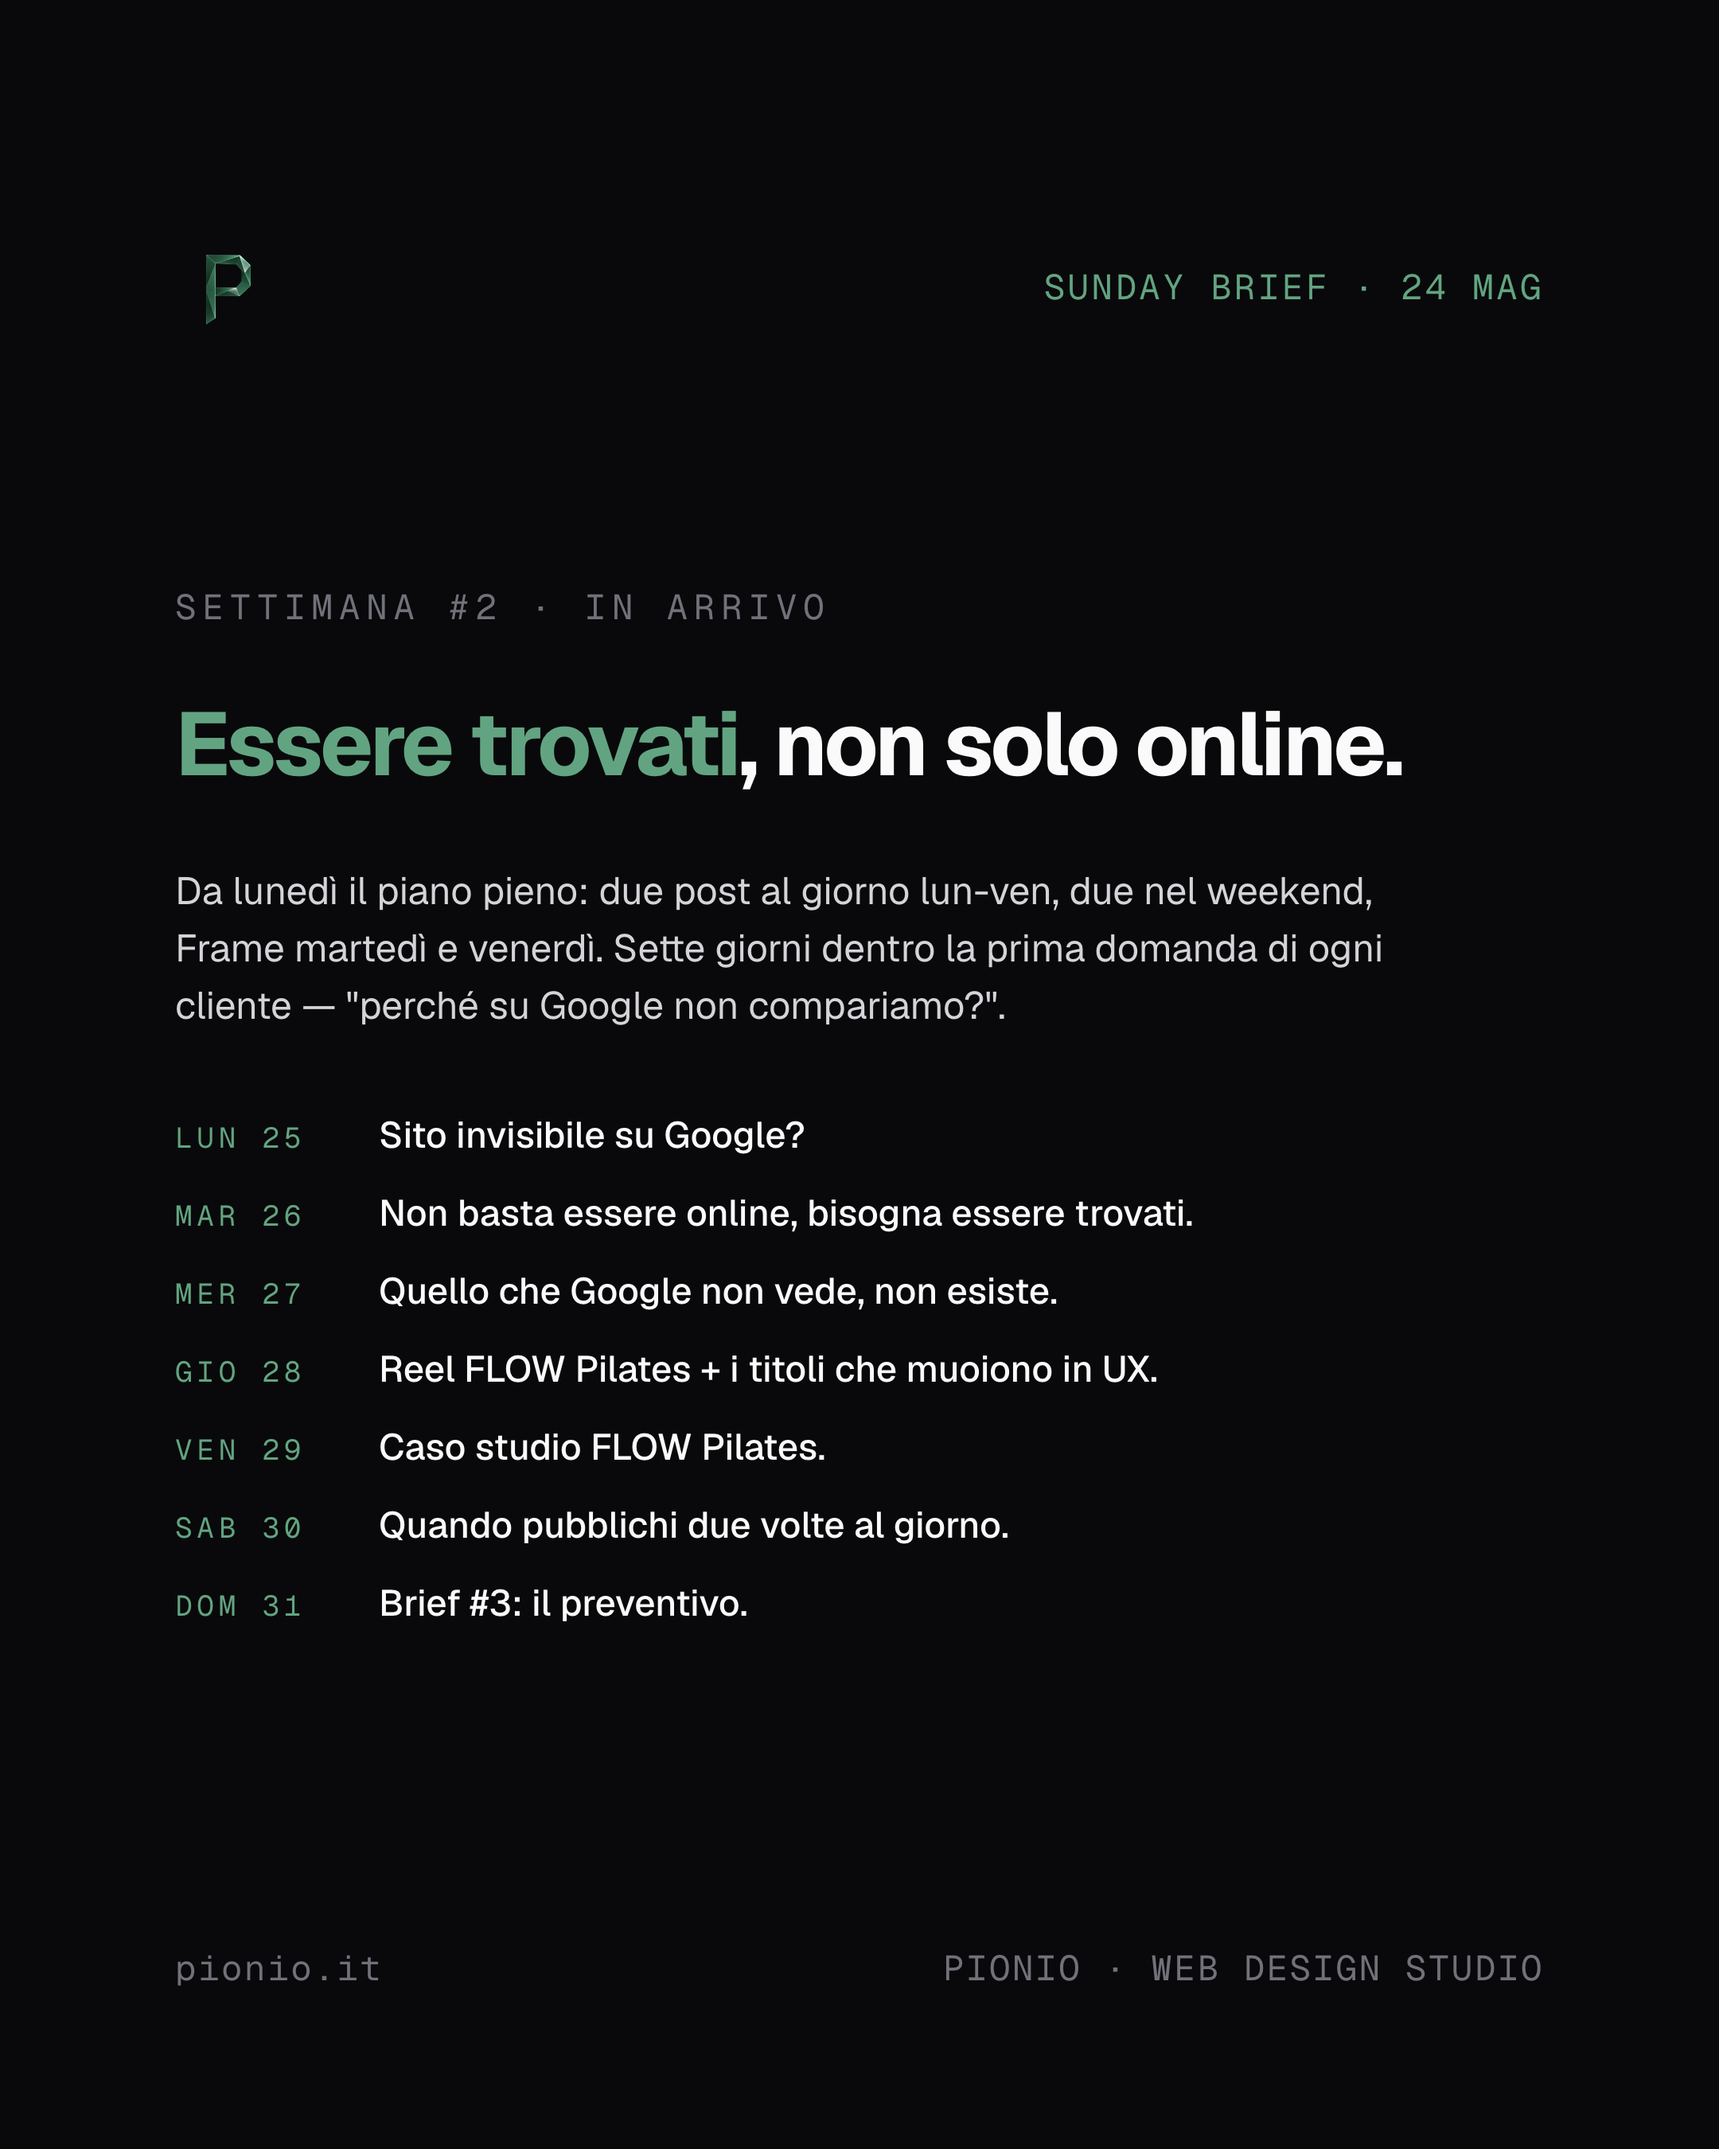
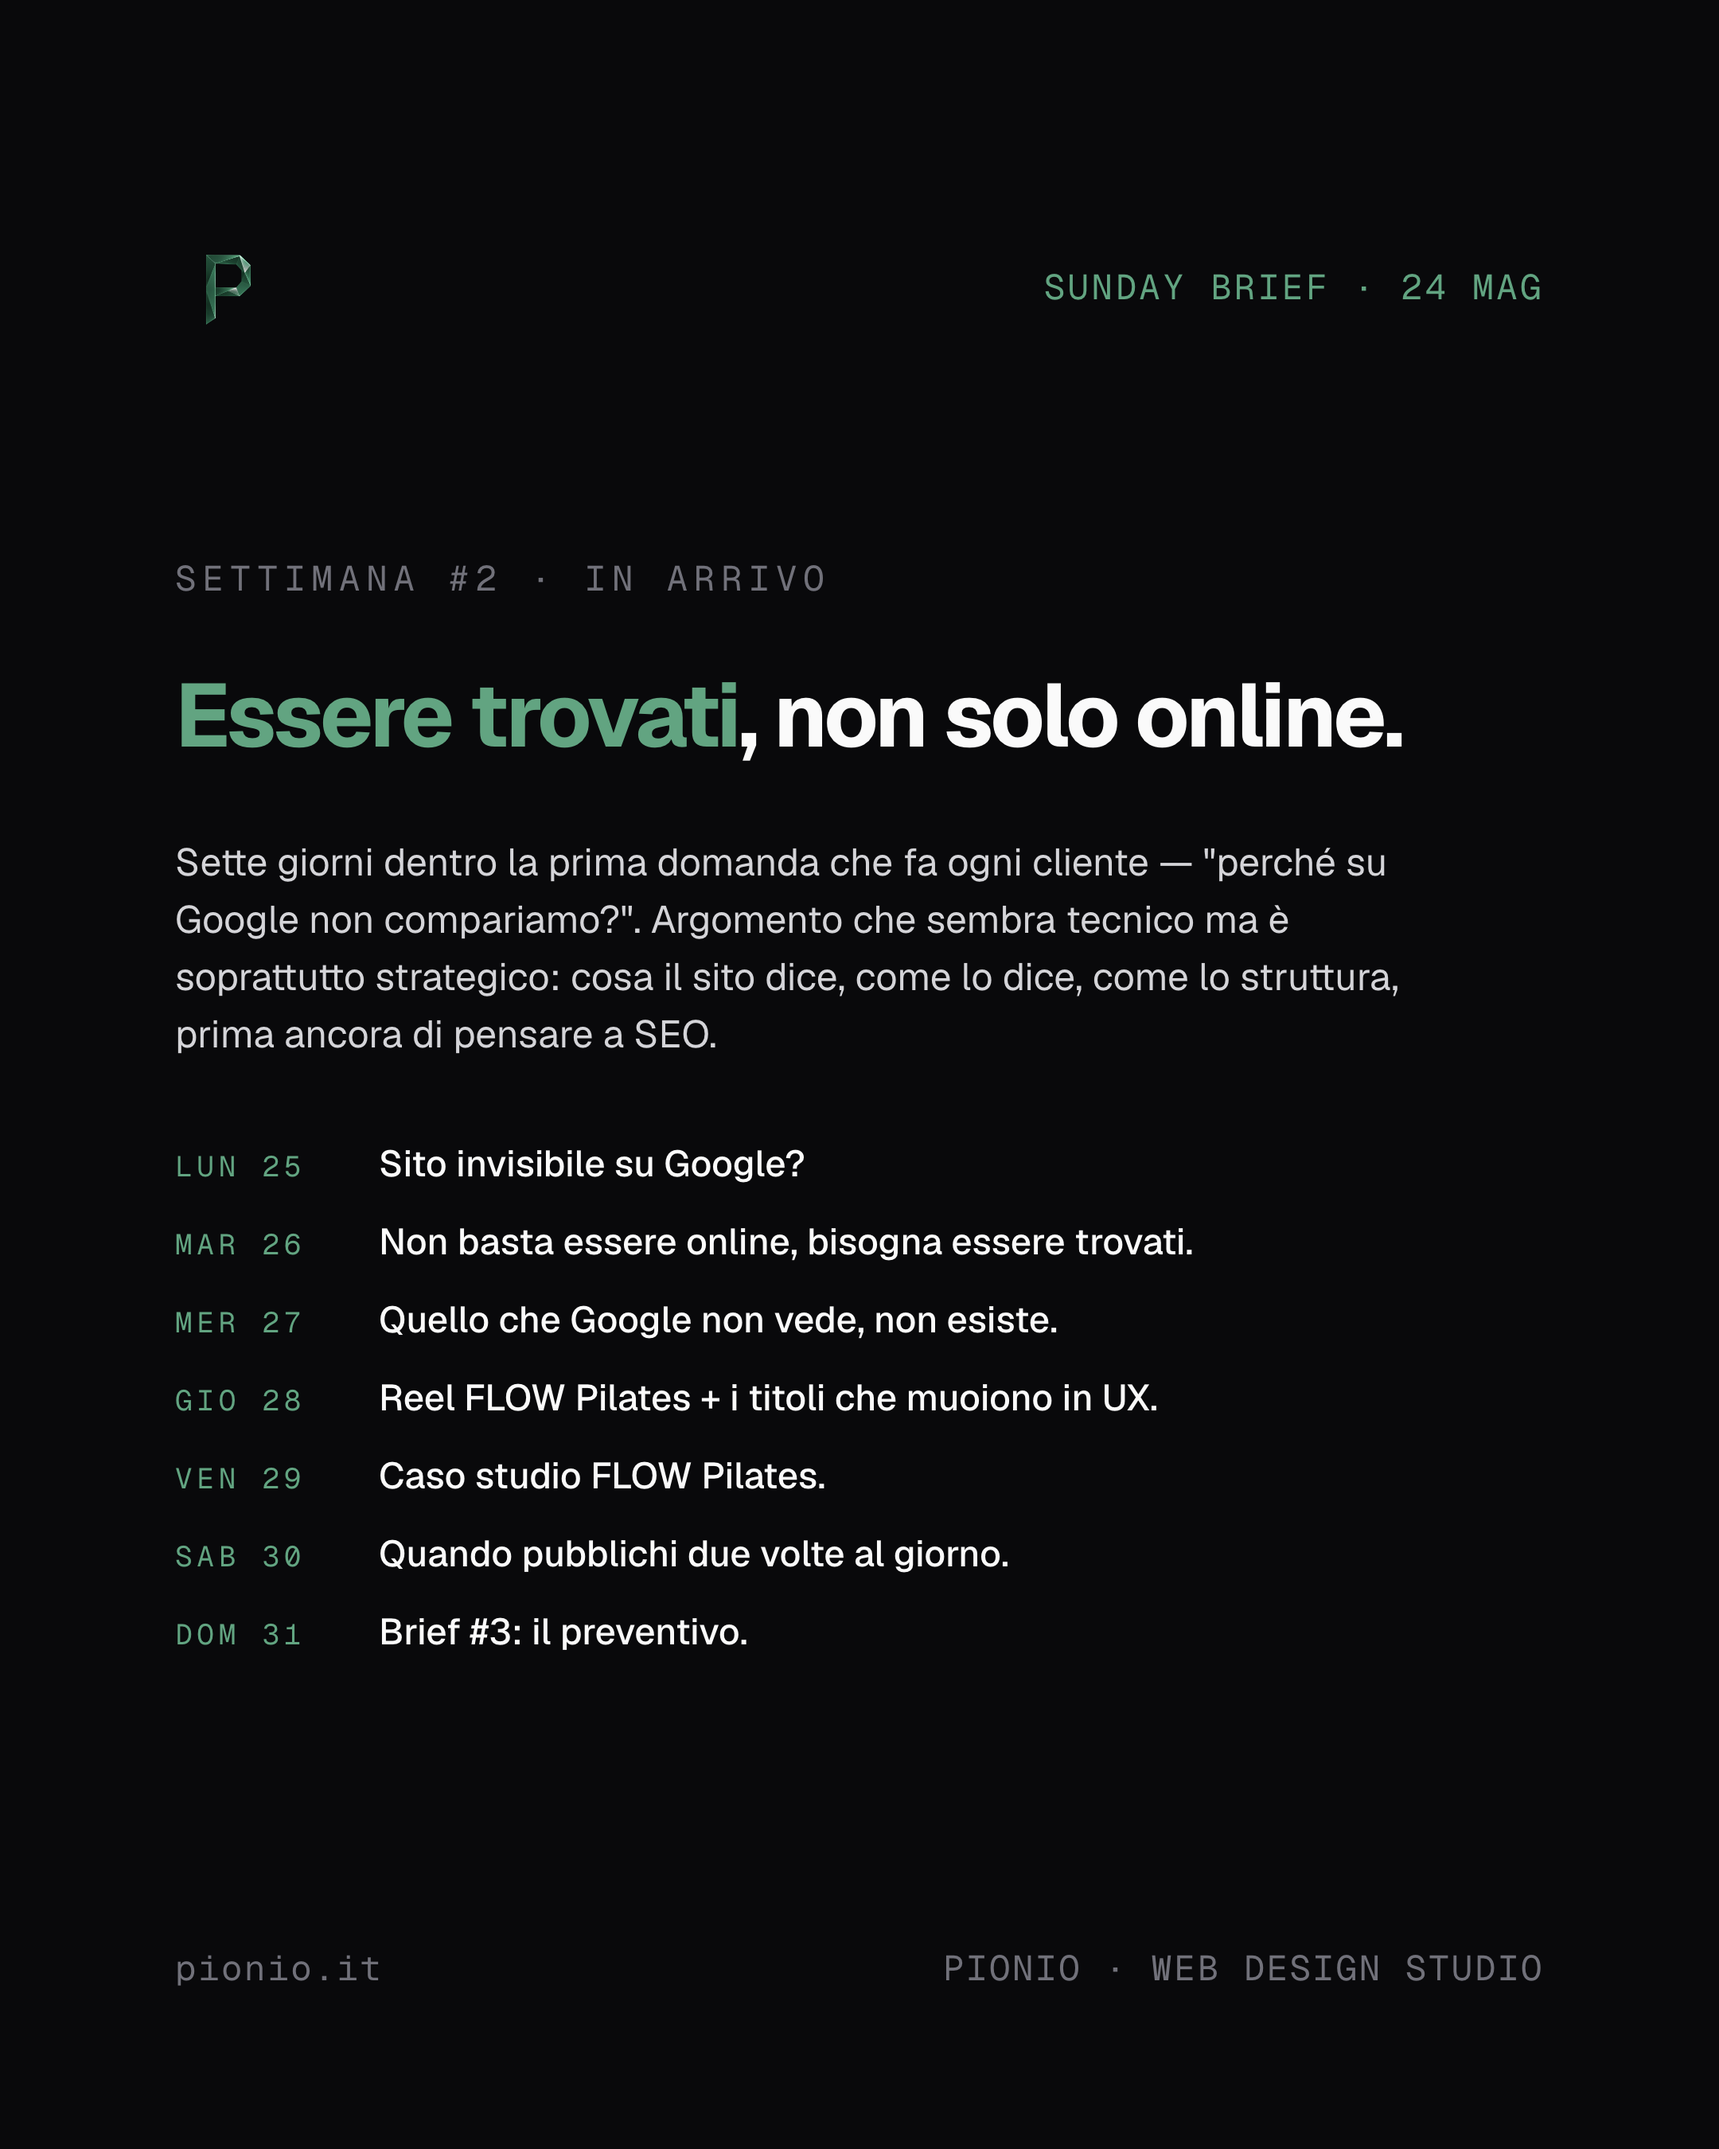
fix(instagram): Brief #2 — togli descrizione piano operativo (16 post legacy)

diff --git a/instagram/content/settimana-01-mag-2026/7-dom-24-13-brief-settimana-2/src/slides.html b/instagram/content/settimana-01-mag-2026/7-dom-24-13-brief-settimana-2/src/slides.html
@@ -85,7 +85,7 @@
     <div class="brief-kicker">SETTIMANA #2 · IN ARRIVO</div>
     <h1 class="brief-title"><em>Essere trovati</em>, non solo online.</h1>
     <p class="brief-lead">
-      Da lunedì il piano pieno: due post al giorno lun-ven, due nel weekend, Frame martedì e venerdì. Sette giorni dentro la prima domanda di ogni cliente — "perché su Google non compariamo?".
+      Sette giorni dentro la prima domanda che fa ogni cliente — "perché su Google non compariamo?". Argomento che sembra tecnico ma è soprattutto strategico: cosa il sito dice, come lo dice, come lo struttura, prima ancora di pensare a SEO.
     </p>
 
     <ul class="brief-list">
